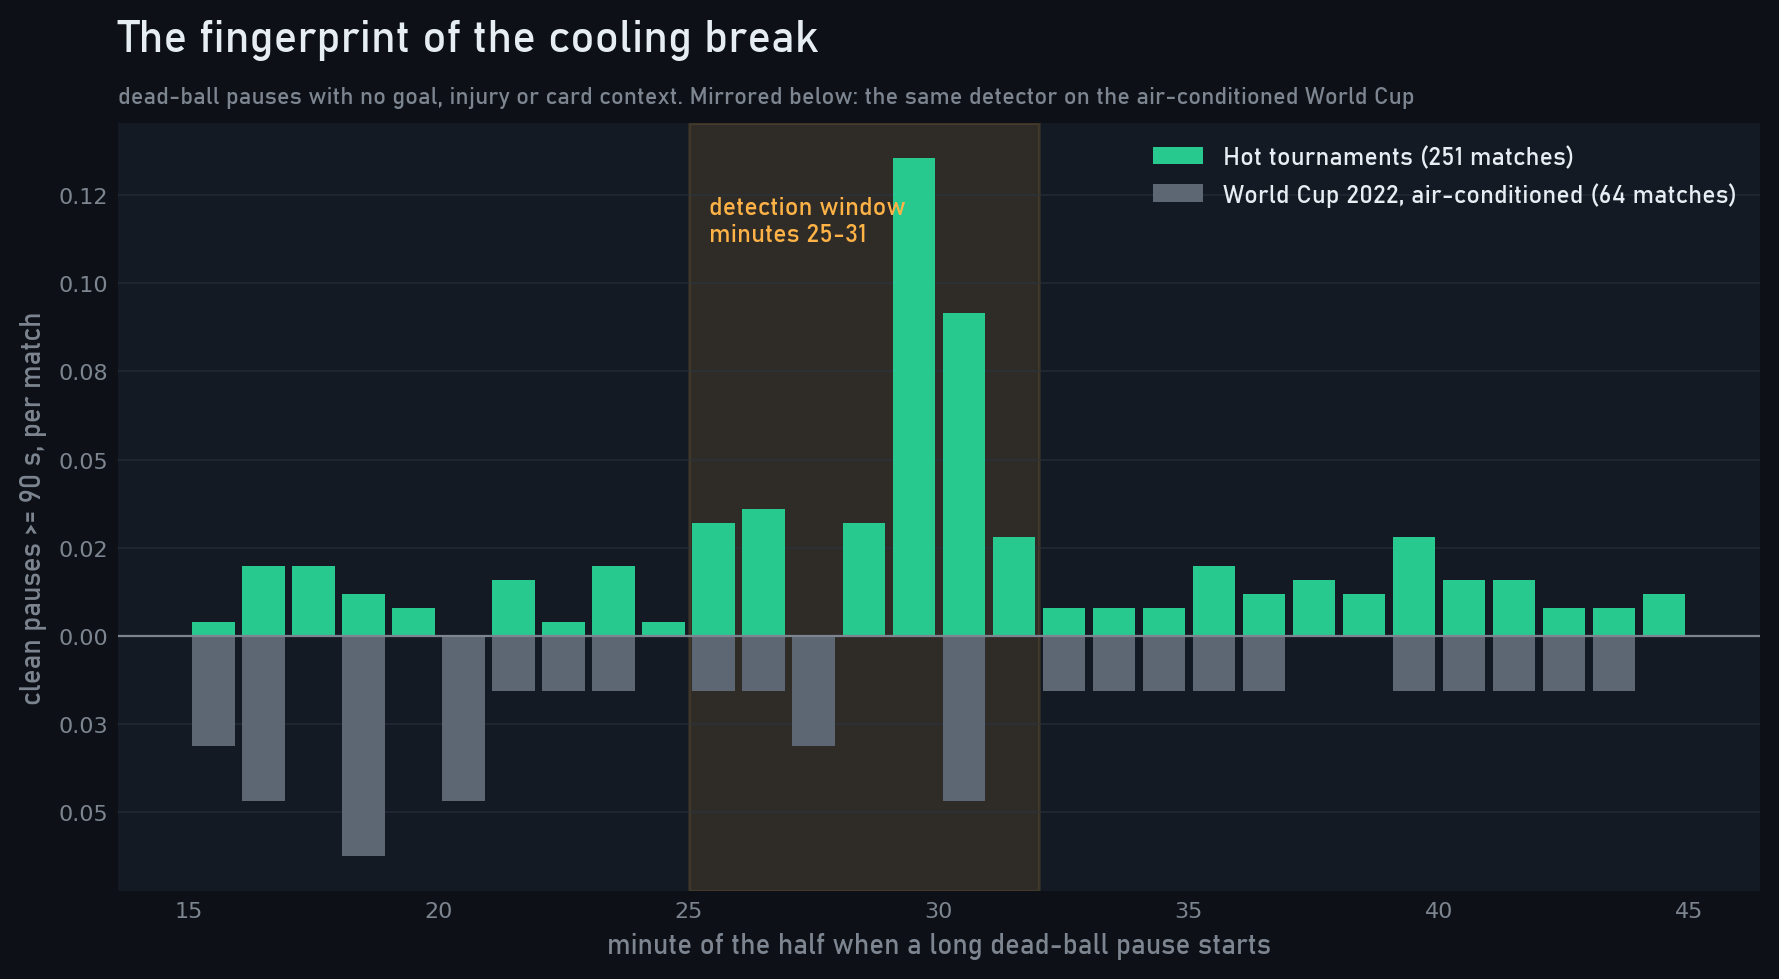
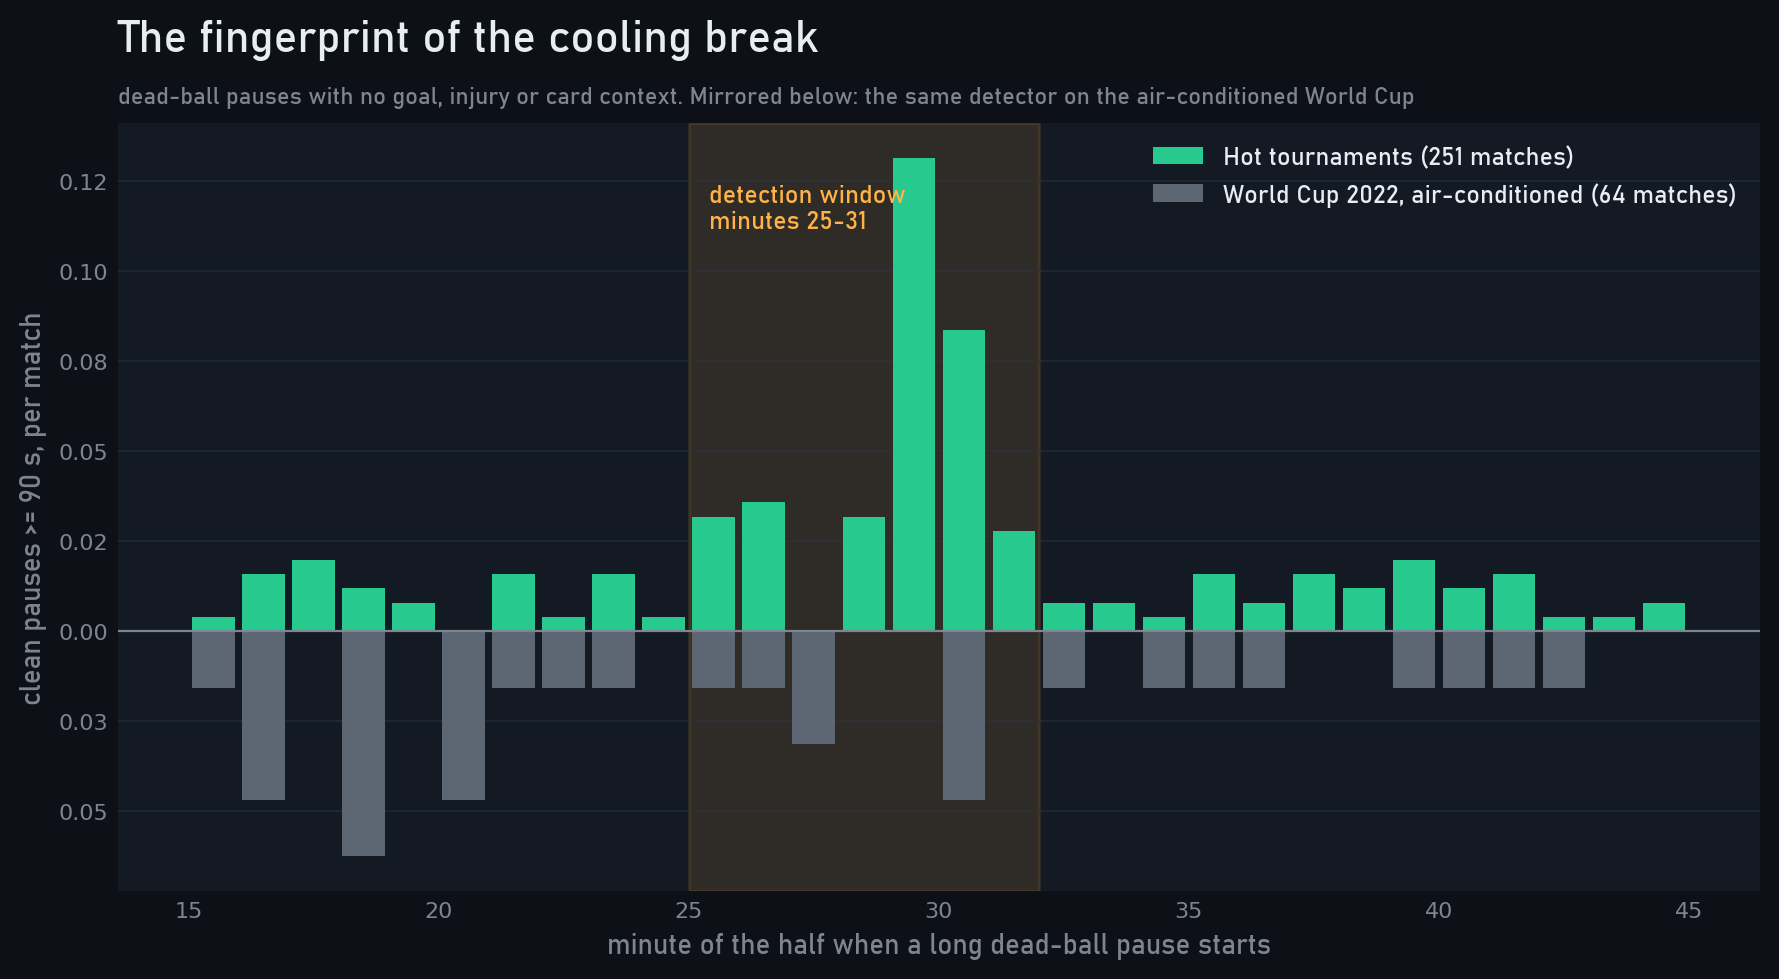
resync break analysis to latest extract: 86 breaks, 68% purity

diff --git a/README.md b/README.md
@@ -21,19 +21,19 @@ Detector firings per match, by tournament:
 
 | tournament              | firings/match | reading                    |
 |-------------------------|---------------|----------------------------|
-| ISL 2021/22 (India)     | 0.44          | breaks in most matches     |
-| Copa America 2024 (USA) | 0.31          | hot-venue matches          |
-| AFCON 2023 (Ivory Coast)| 0.31          | hot-venue matches          |
+| ISL 2021/22 (India)     | 0.43          | breaks in most matches     |
+| Copa America 2024 (USA) | 0.28          | hot-venue matches          |
+| AFCON 2023 (Ivory Coast)| 0.29          | hot-venue matches          |
 | WWC 2019 (France)       | 0.23          | heatwave weeks             |
 | Euro 2024               | 0.14          | ~ background               |
 | Euro 2020               | 0.12          | ~ background               |
-| WC 2018 (Russia)        | 0.11          | = background, exactly      |
+| WC 2018 (Russia)        | 0.09          | ~ background               |
 | WC 2022 (Qatar, AC)     | 0.11          | the measured noise floor   |
-| WWC 2023 (winter)       | 0.09          | ~ background               |
+| WWC 2023 (winter)       | 0.08          | ~ background               |
 
 The air-conditioned 2022 World Cup defines the false-positive floor: 0.11
 firings per match (VAR checks, slow restarts). Hot tournaments run 2-4x that,
-and only those four enter the break set: 89 breaks, estimated 69% genuine.
+and only those four enter the break set: 86 breaks, estimated 68% genuine.
 
 Validation against ground truth: the WWC 2019 quarter-final (Italy 0-2
 Netherlands, 34C in Valenciennes) was reported at the time as requiring
@@ -105,35 +105,35 @@ python src/live_eval.py 4667757    # a single FotMob match id
 
 ## The trap: breaks live at minute 75
 
-The naive analysis is seductive. Pool everything and you get: 45% of breaks
+The naive analysis is seductive. Pool everything and you get: 43% of breaks
 are followed by a substitution or formation change within 5 minutes, against
-26% in no-break control windows. Substitutions during the pause run 3x the
-pooled control rate. It looks like coaches treat the pause as a free timeout.
+26% in no-break control windows. Substitutions during the pause run almost 3x
+the pooled control rate. It looks like coaches treat the pause as a free timeout.
 
 It is mostly composition. Second-half breaks sit at minute 75, which is
-prime substitution time with or without a break, and the break set is 63%
+prime substitution time with or without a break, and the break set is 62%
 second halves while the control set is 61% first halves. Comparing like
 halves with like:
 
-- sub or shape change within 5 min: 45% vs 38% (control standardized to the
-  break period mix), 95% CI on the gap -3 to +16 points. Not significant.
-- second half only, match-clustered: 70% vs 57%, CI -3 to +28 points.
+- sub or shape change within 5 min: 43% vs 38% (control standardized to the
+  break period mix), 95% CI on the gap -5 to +15 points. Not significant.
+- second half only, match-clustered: 68% vs 57%, CI -4 to +27 points.
 - first half only: 3% vs 7%. Nothing.
 
 ## What survives
 
-- Substitutions migrate into the pause itself. 0.55 subs are made during the
-  average break against 0.28 expected (period-standardized), roughly 2x, CI
-  +0.07 to +0.49. Coaches use the dead time to make the changes they were
+- Substitutions migrate into the pause itself. 0.53 subs are made during the
+  average break against 0.29 expected (period-standardized), roughly 1.8x, CI
+  +0.04 to +0.46. Coaches use the dead time to make the changes they were
   about to make anyway. (Read with care: control halves cannot contain long
   sub stoppages by construction, and some detected breaks are themselves
   substitution stoppages, so part of this gap is selection.)
 - Momentum does not detectably move. The team dominating threat (xT + xG)
   before the break stays dominant after it as often as in control windows:
-  flips 33% vs 39%, CI -18 to +5 points; mean swing in threat share is
-  indistinguishable. With 69% purity this is low-powered against subtle
+  flips 34% vs 36%, CI -14 to +10 points; mean swing in threat share is
+  indistinguishable. With 68% purity this is low-powered against subtle
   effects, so it is a no-detectable-effect result, not proof of absence.
-- Formation changes during the pause: no detectable excess (CI -11 to +3
+- Formation changes during the pause: no detectable excess (CI -11 to +2
   points).
 
 ## Predicting the matches and the champion
@@ -222,8 +222,8 @@ replay, and the tactical snapshot.
 
 ## Limitations
 
-- The detector is statistical. Purity is ~69% in the break set (75% ISL,
-  ~65% AFCON and Copa, ~53% WWC 2019), measured against the WC 2022 floor.
+- The detector is statistical. Purity is ~68% in the break set (75% ISL,
+  ~62% AFCON and Copa, ~53% WWC 2019), measured against the WC 2022 floor.
   Contamination shrinks true differences toward zero: conservative for the
   positive findings, but it also weakens the momentum null.
 - Control halves are quieter than break halves by construction (no long